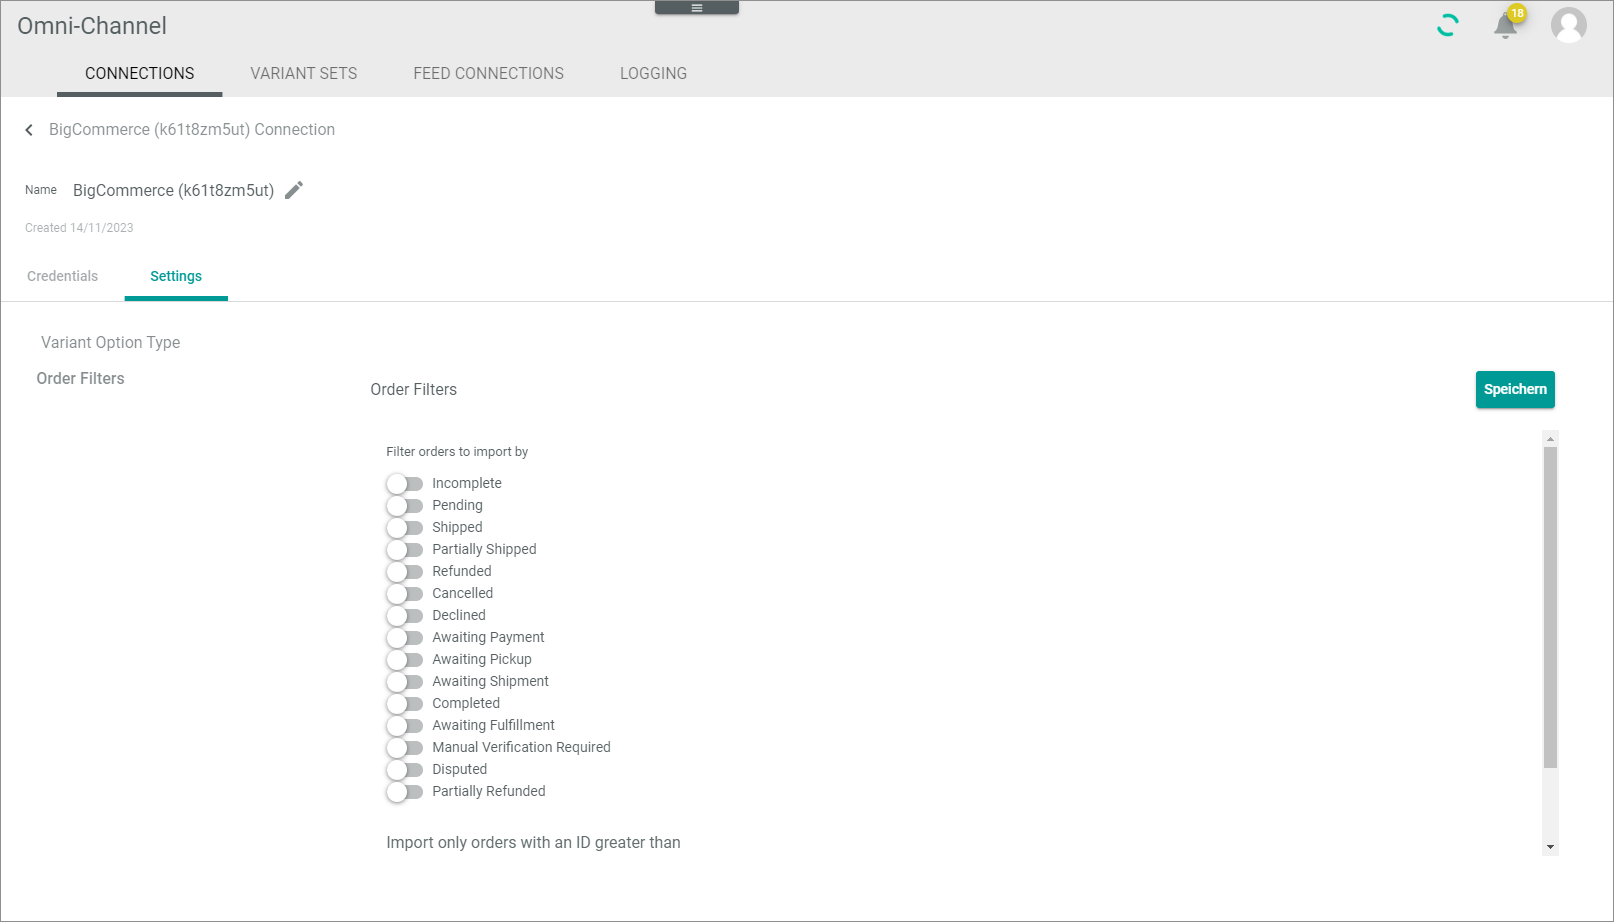
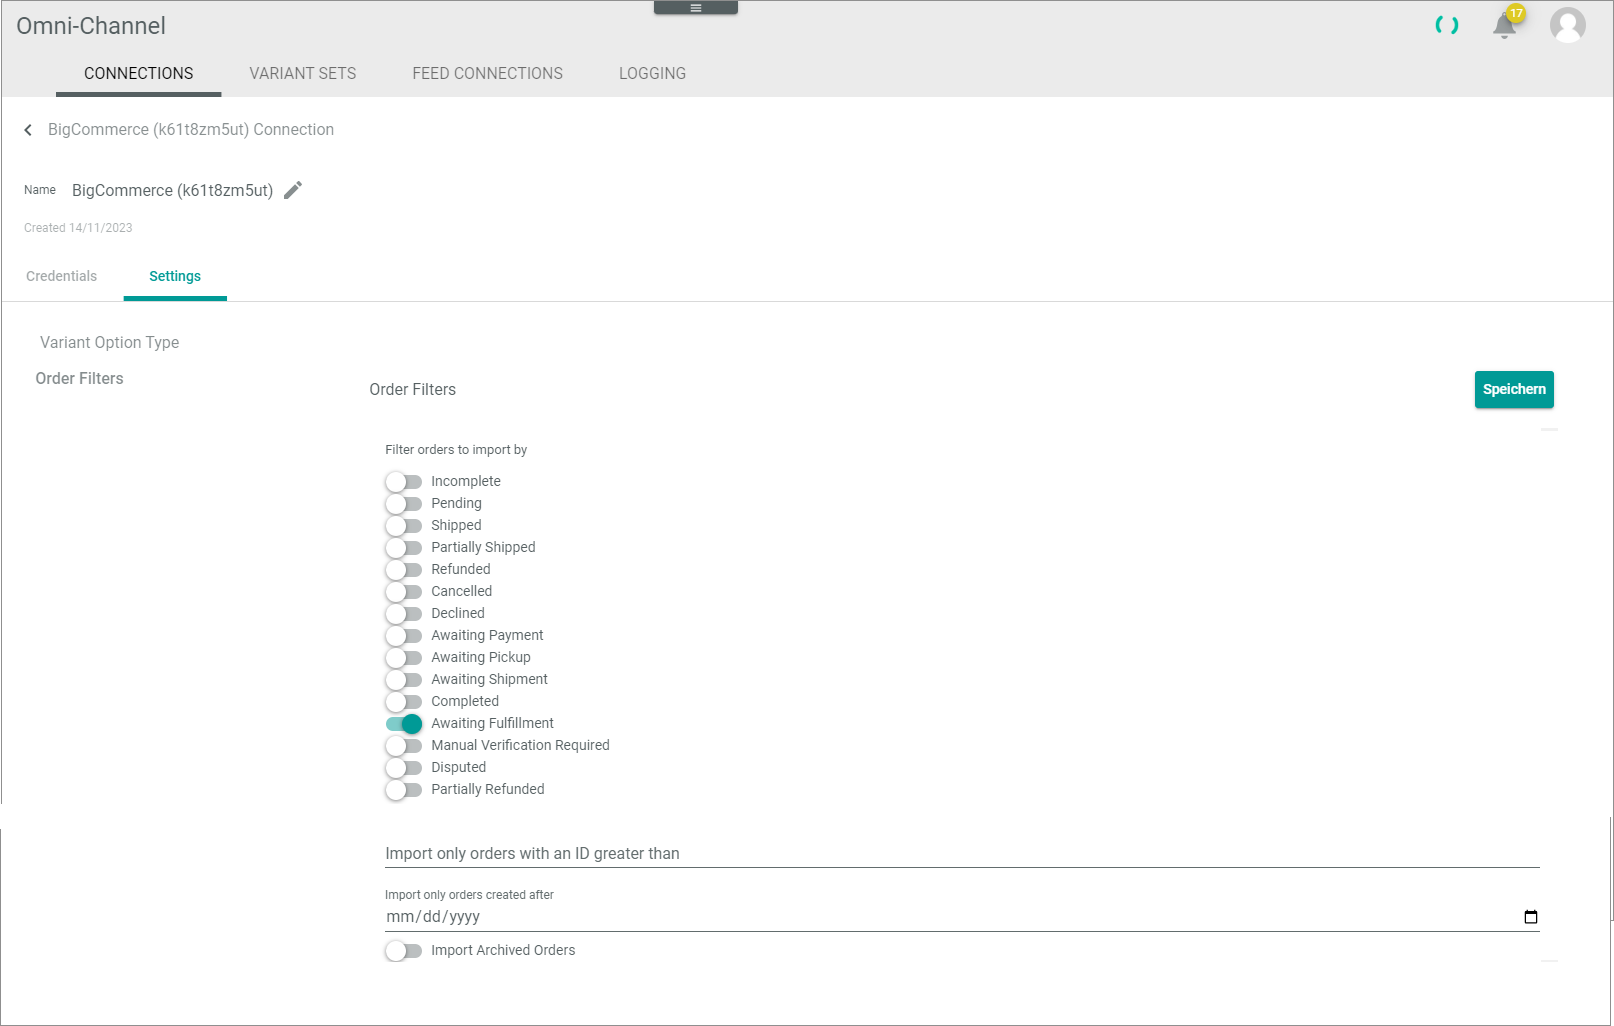
ACD-992
Connections

diff --git a/BigCommerce/UserInterface/01_Connections.md b/BigCommerce/UserInterface/01_Connections.md
@@ -188,9 +188,27 @@ The *Settings* tab is composed of the following setting entries:
 
 ### Variant option type
 
+*Omnni-Channel > Settings > Tab CONNECTIONS > Select Shopware 6 connection > Tab Settings > Menu entry Variant option type*
+
+![Variant option type](../../Assets/Screenshots/Channels/Settings/Connections/BigCommerce/Variantoptiontype.png "[Variant option type]")
+
+- *Variant option type used for variants*   
+   Use this dropdown list to select the type to select variants. For detailed information, see [Configure BigCommerce connection](../Integration/02_ManageBigCommerceConnection.md#configure-bigcommerce-connection).
 
 
 
 ### Order filters
 
+*Omnni-Channel > Settings > Tab CONNECTIONS > Select Shopware 6 connection > Tab Settings > Menu entry Order filters*
 
+![Order filters](../../Assets/Screenshots/Channels/Settings/Connections/BigCommerce/OrderFilters.png "[Order filters]")
+
+- *Filter orders to import by*   
+   Select the order status to define the orders to be imported to *Actindo*.
+
+- *Import only orders with an ID greater than*   
+
+- *Import only orders created after*   
+
+- *Import archived orders*   
+   Toggle this setting if you want to import orders that have been already archived.

diff --git a/BigCommerce/Integration/02_ManageBigCommerceConnection.md b/BigCommerce/Integration/02_ManageBigCommerceConnection.md
@@ -126,7 +126,7 @@ Additionally, if you have worked with *BigCommerce* before you have started with
  1. Click the *BigCommerce* connection you want to edit in the list of connections.   
    The *Credentials* and the *Settings* tab are displayed in the *Edit connection* view.
 
-    ![Connection credentials](../../Assets/Screenshots/BigCommerce/UserInterface/ConnectionCredentials.png "[Connection credentials]")
+    ![Connection credentials](../../Assets/Screenshots/Channels/Settings/Connections/BigCommerce/ConnectionCredentials.png "[Connection credentials]")
 
 2. Click the *Settings* tab.
 
